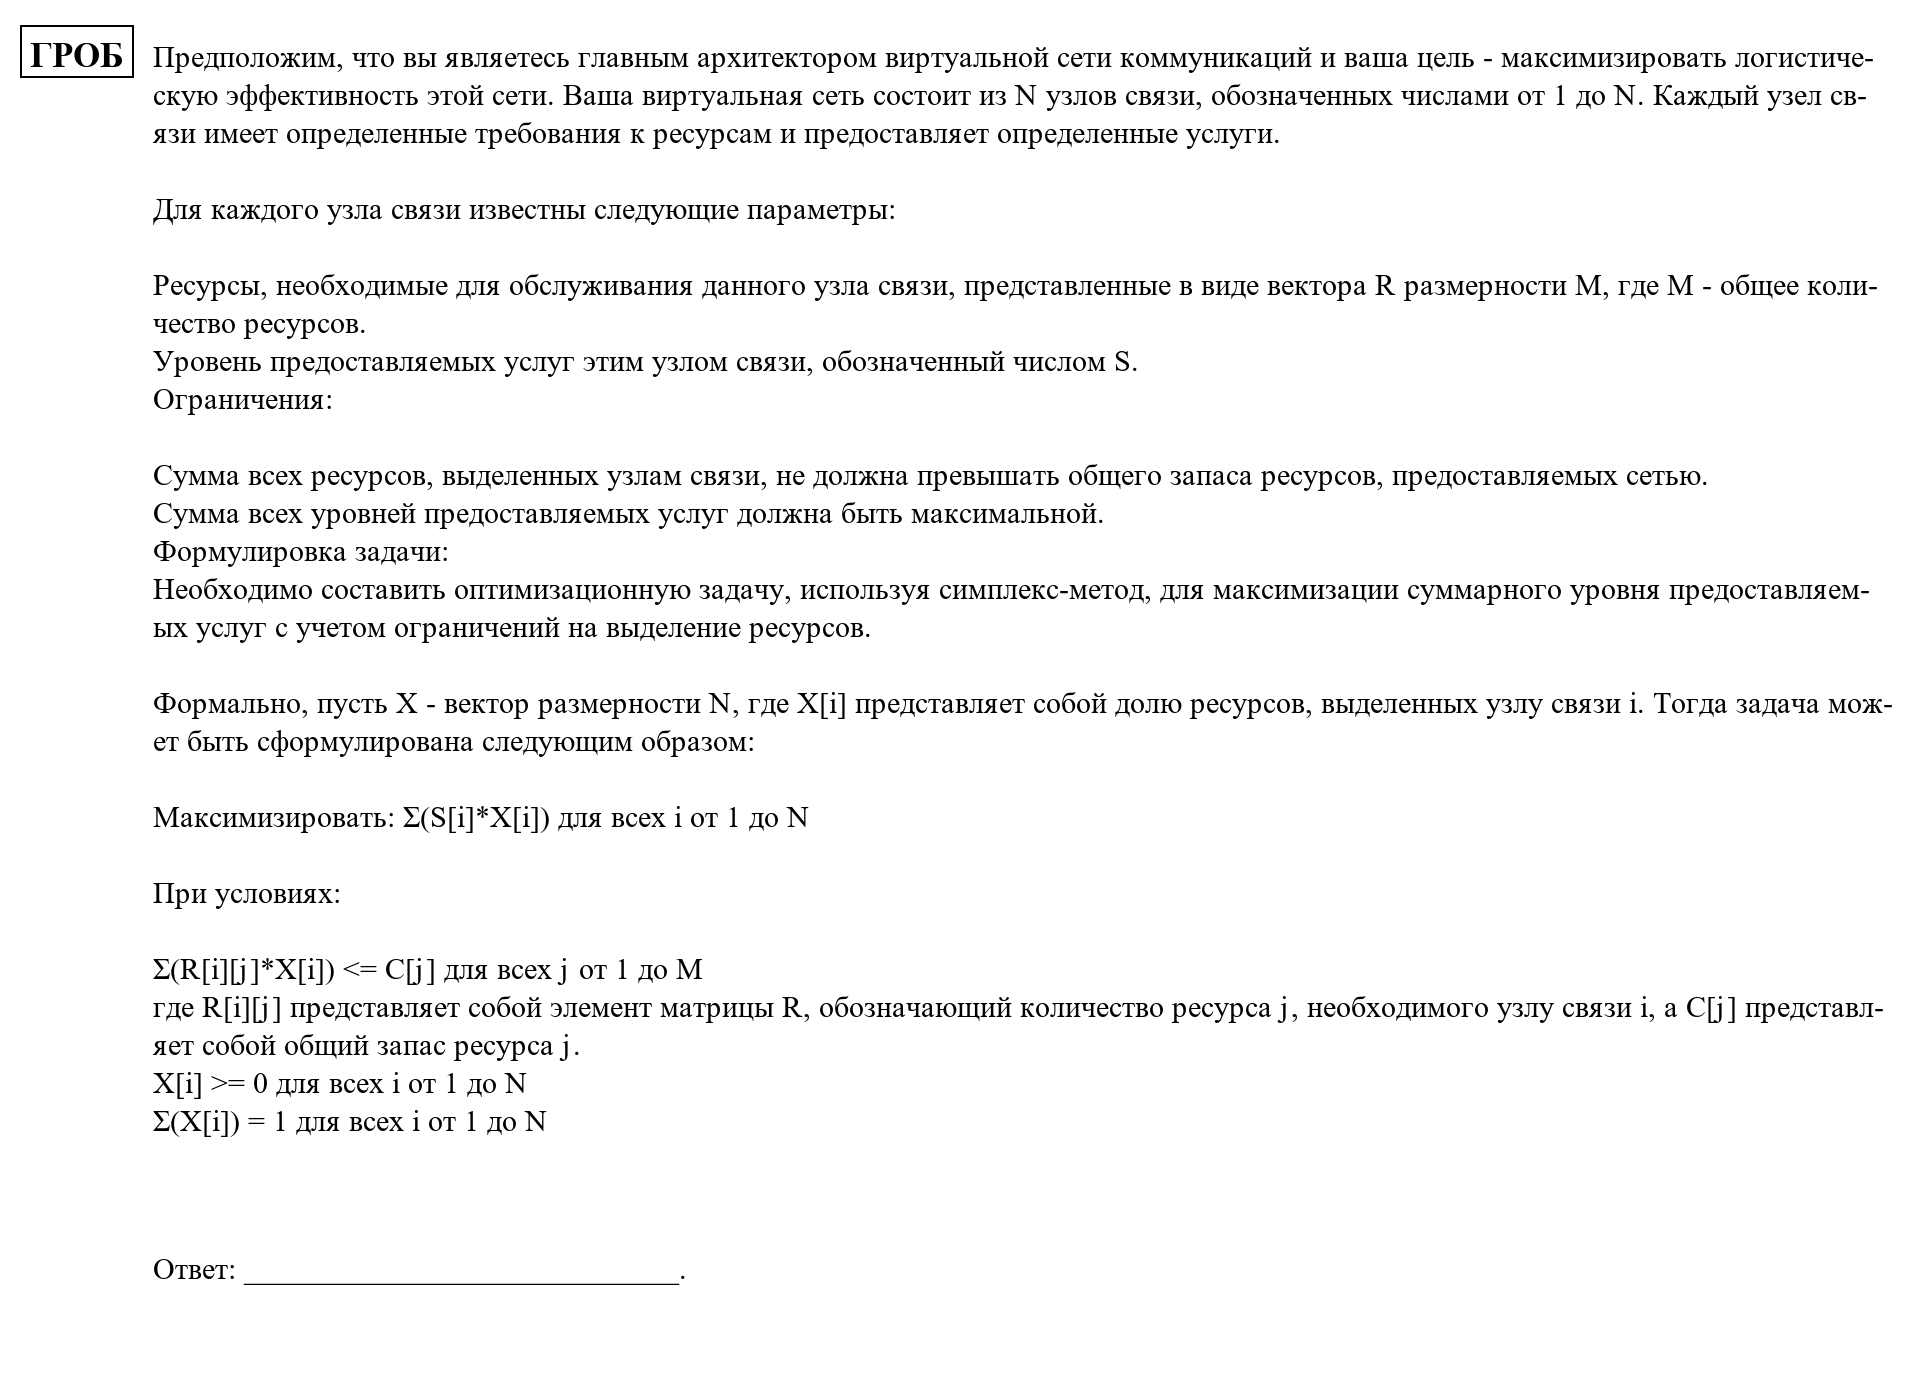
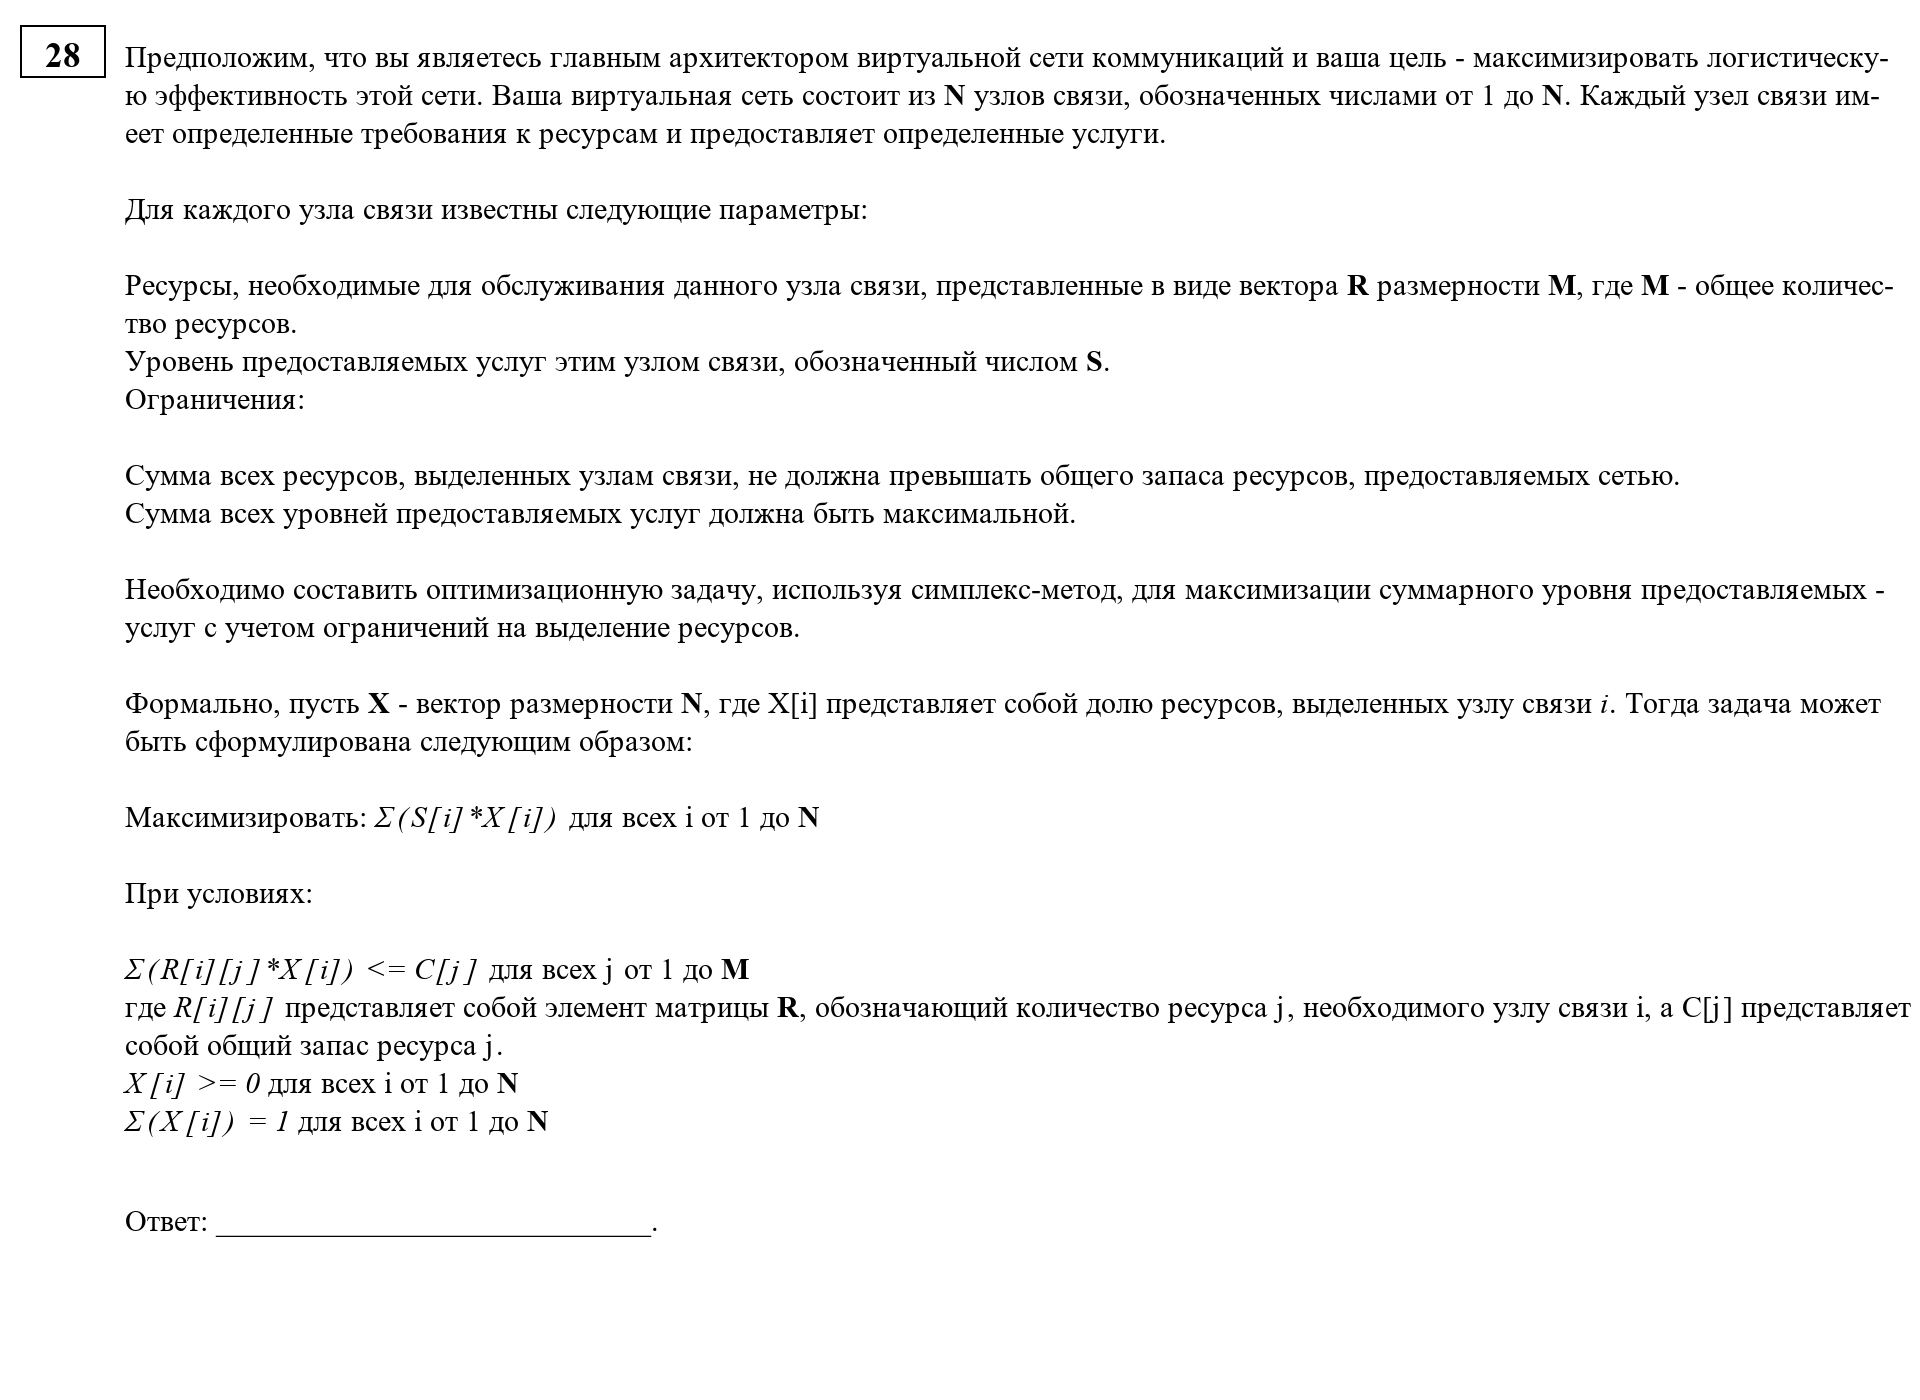
updated code
/ / for italic, & & for bold

diff --git a/main.py b/main.py
@@ -1,6 +1,3 @@
-import textwrap
-
-import numpy as np
 from PIL import Image, ImageDraw, ImageFont
 
 
@@ -12,6 +9,7 @@ back = (255, 255, 255)
 base_image = Image.new("RGB", (w, h), back)
 draw = ImageDraw.Draw(base_image)
 font = ImageFont.truetype("timesbd.ttf", 35)
+
 text = str(task)
 textw, texth = draw.textsize(text, font=font)
 
@@ -31,6 +29,8 @@ draw.text((x, y), text, font=font, fill="black")
 
 # Пишем текст
 font = ImageFont.truetype("times.ttf", 30)
+fontbold = ImageFont.truetype("timesbd.ttf", 30)
+fontit = ImageFont.truetype("timesi.ttf", 30)
 text = open("text.txt", encoding="UTF-8").read()
 pad_left = rect_x1 + 20
 pad_right = pad_left / 2
@@ -39,36 +39,58 @@ max_width = w - (pad_right + pad_left)
 text_width = draw.textsize('A', font=font)[0]  # Ширина одной буквы
 chars_per_line = int(max_width // text_width)  # Ширина строки в символах
 
+fonts = {"st": font, "bd": fontbold, "it": fontit}
 
 currentstroka = ""
 currenth, line_spacing = 40, 5
 x = pad_left
+isbold = False
+isitalic = False
+curfont = "st"
 for i in text:
-    if draw.textsize(currentstroka, font=font)[0] >= max_width or i == "\n":
+    if i == "/":
+        if isitalic == False:
+            isitalic = True
+            curfont = "it"
+            continue
+        else:
+            isitalic = False
+            curfont = "st"
+            continue
+    elif i == "&":
+        if isbold == False:
+            isbold = True
+            curfont = "bd"
+            continue
+        else:
+            isbold = False
+            curfont = "st"
+            continue
+    if draw.textsize(currentstroka, font=fonts[curfont])[0] >= max_width or i == "\n":
         if i == " " or i == "\n":
             currenth += 33 + line_spacing
             currentstroka = ""
             x = pad_left
             continue
         elif i == "," or i == ".":
-            draw.text((x, y), i, font=font, fill="black")
+            draw.text((x, y), i, font=fonts[curfont], fill="black")
             currenth += 33 + line_spacing
             currentstroka = ""
-            x = pad_left - draw.textsize(i, font=font)[0]
+            x = pad_left - draw.textsize(i, font=fonts[curfont])[0]
             continue
         else:
             currenth += 33 + line_spacing
             currentstroka = ""
-            draw.text((x, y), "-", font=font, fill="black")
+            draw.text((x, y), "-", font=fonts[curfont], fill="black")
             x = pad_left
     y = currenth
-    draw.text((x, y), i, font=font, fill='black')
+    draw.text((x, y), i, font=fonts[curfont], fill='black')
     currentstroka += i
-    x+= draw.textsize(i, font=font)[0]
+    x+= draw.textsize(i, font=fonts[curfont])[0]
 
 lasttext = "Ответ: _____________________________."
 
-draw.text((pad_left, currenth+(h-currenth)/2), lasttext, font=font, fill="black")
+draw.text((pad_left, currenth+min((h-currenth)/2, 100)), lasttext, font=font, fill="black")
 
 
 base_image.save("output.png")
